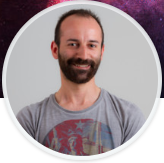
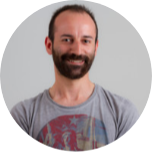
Adjusted Cards responsivity; added new contacts image

diff --git a/assets/styles.css b/assets/styles.css
@@ -150,8 +150,8 @@ table.center {
 .mini_container {
   border-radius: 5px;
   background-color: #f9f9f9;
-  margin: 10px;
-  padding: 15px;
+  margin: 5px;
+  padding: 10px;
   position: relative;
   box-shadow: 2px 2px 2px lightgrey;
 }
